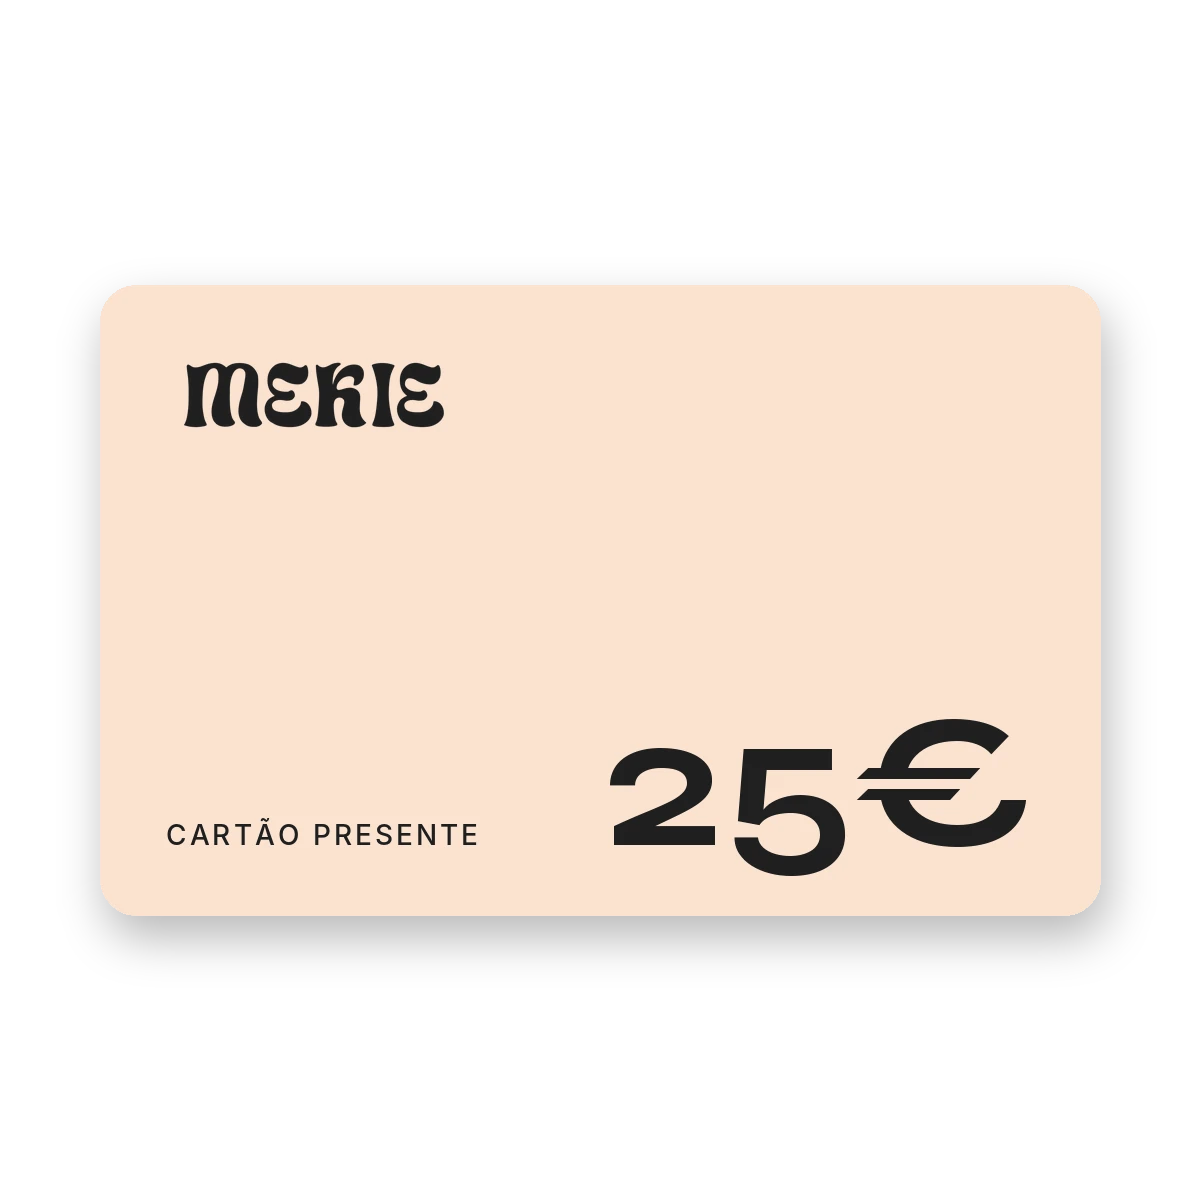
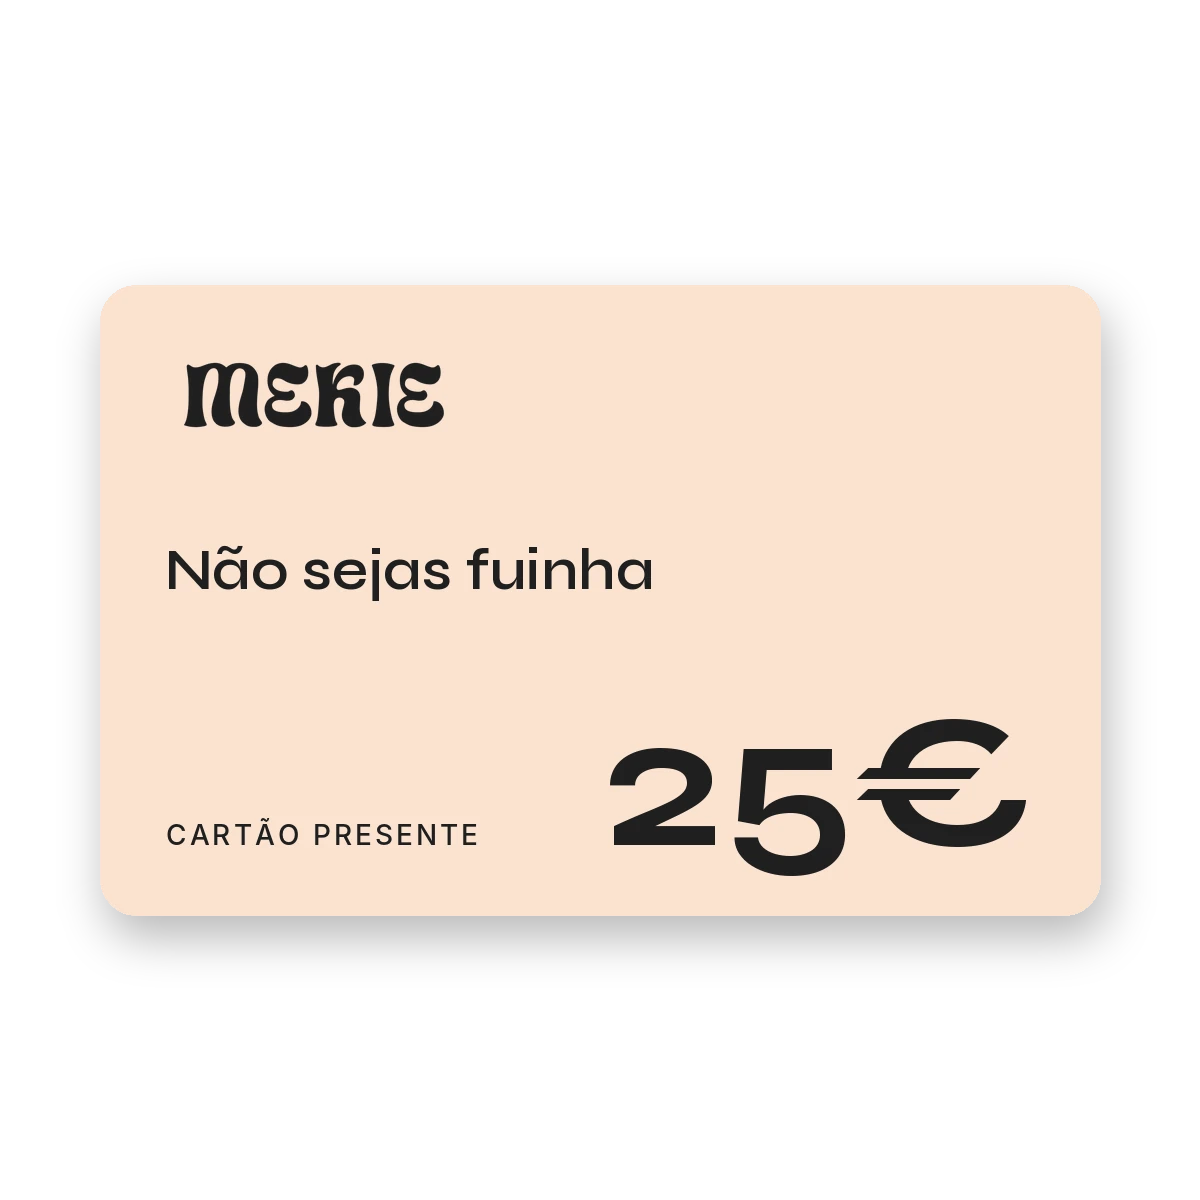
Cartões presente com nome: Não sejas fuinha, Tá-se bem, Mekie bro e Estás um mãos largas
Claude-Session: https://claude.ai/code/session_01237WMV9qi8wv9X1hGkTHPY

Changed region(s): [[0.1233, 0.4625, 0.555, 0.4933]]

diff --git a/src/data/giftcard.ts b/src/data/giftcard.ts
@@ -9,6 +9,8 @@ export const giftCard = {
   /** prazo para enviarmos o cartão por email depois do pagamento */
   sendDays: 1,
   values: [25, 50, 75, 100],
+  /** nome de cada cartão, também impresso na imagem */
+  names: { 25: 'Não sejas fuinha', 50: 'Tá-se bem', 75: 'Mekie bro', 100: 'Estás um mãos largas' } as Record<number, string>,
 };
 
 export const giftImage = (value: number) => `/images/products/cartao-presente-${value}.webp`;
@@ -19,7 +21,9 @@ export const giftCatalog = giftCard.values.map((value, i) => ({
   slug: giftCard.slug,
   href: `/${giftCard.slug}/`,
   name: giftCard.name,
-  color: `${value}€`,
+  color: `${value}€ · ${giftCard.names[value]}`,
+  value,
+  title: giftCard.names[value],
   price: value,
   image: giftImage(value),
   grams: 0,
